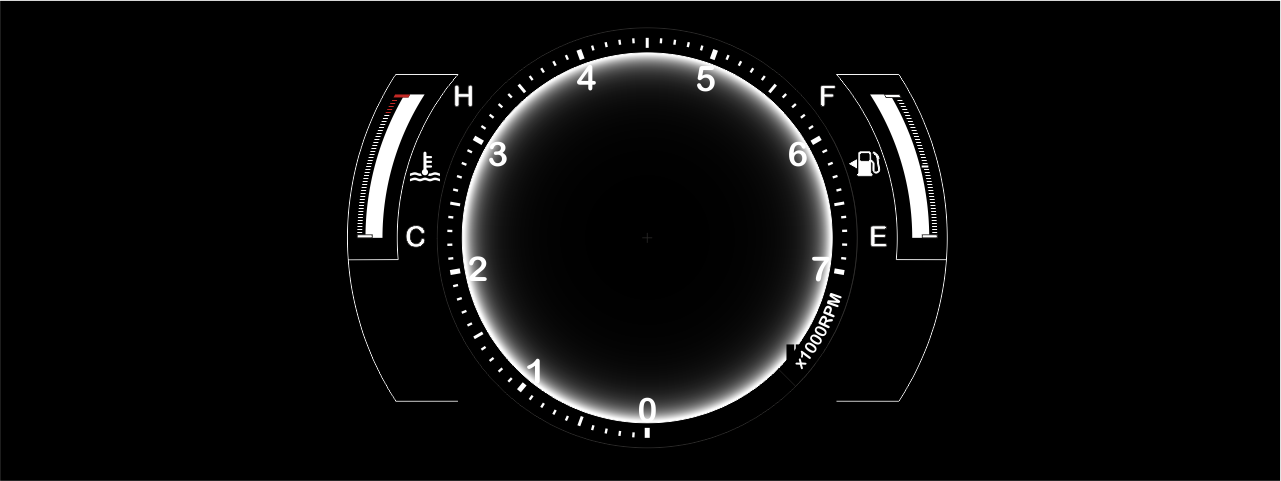
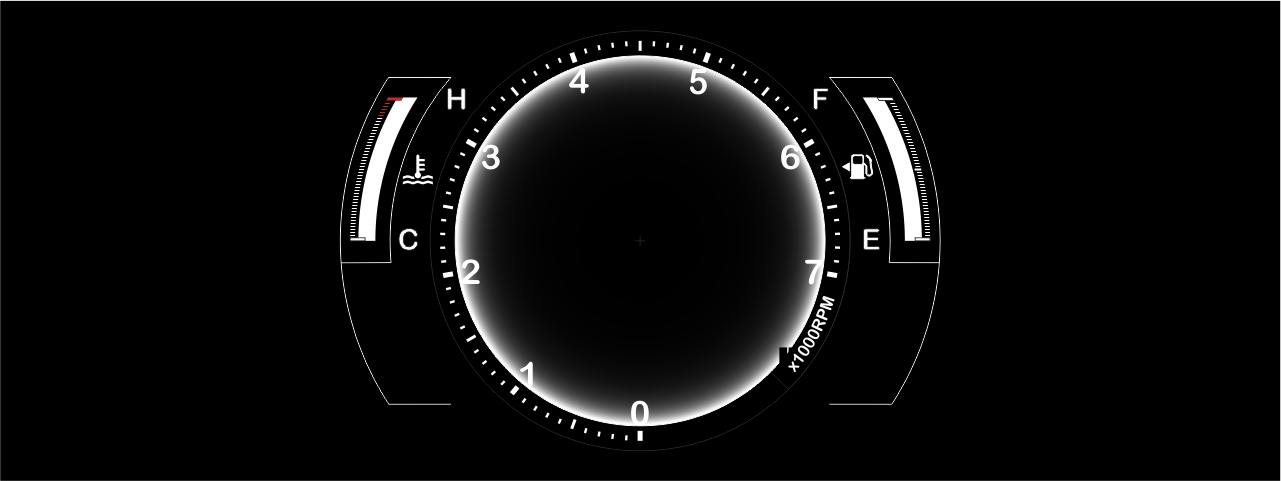
dashmask edit

diff --git a/main.qml b/main.qml
@@ -24,8 +24,8 @@ Window {
     ProgressBar{
         id: coolantTemp
 
-        x: 364
-        y: 93
+        x: 357
+        y: 95
         visible: true
 
         //
@@ -36,8 +36,8 @@ Window {
     ProgressBar{
         id: fuelLevel
 
-        x: 870
-        y: 93
+        x: 862
+        y: 95
 
         //
         scale_value: 144
